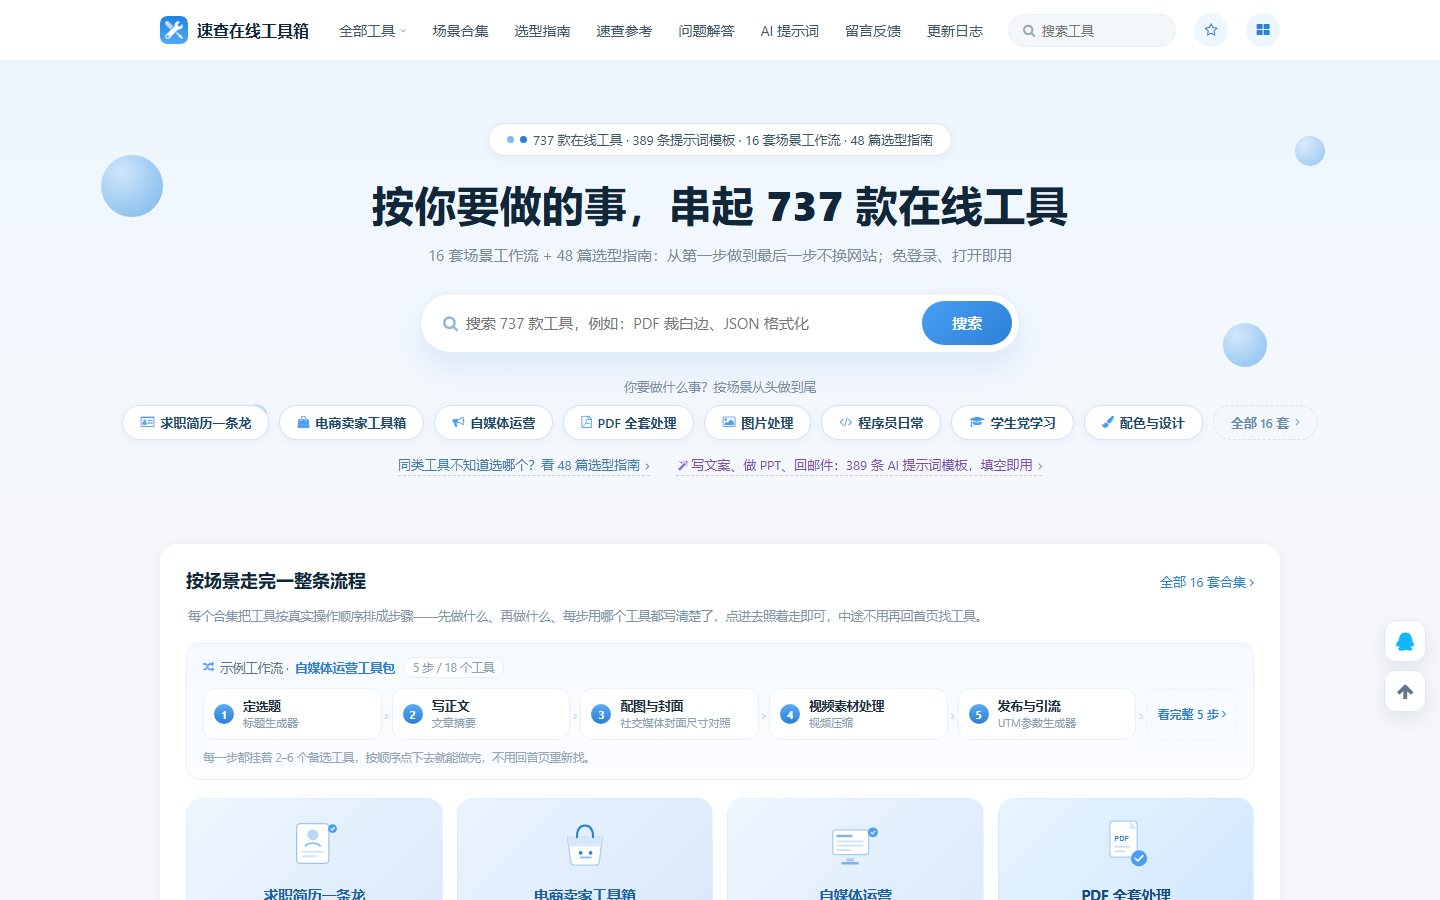
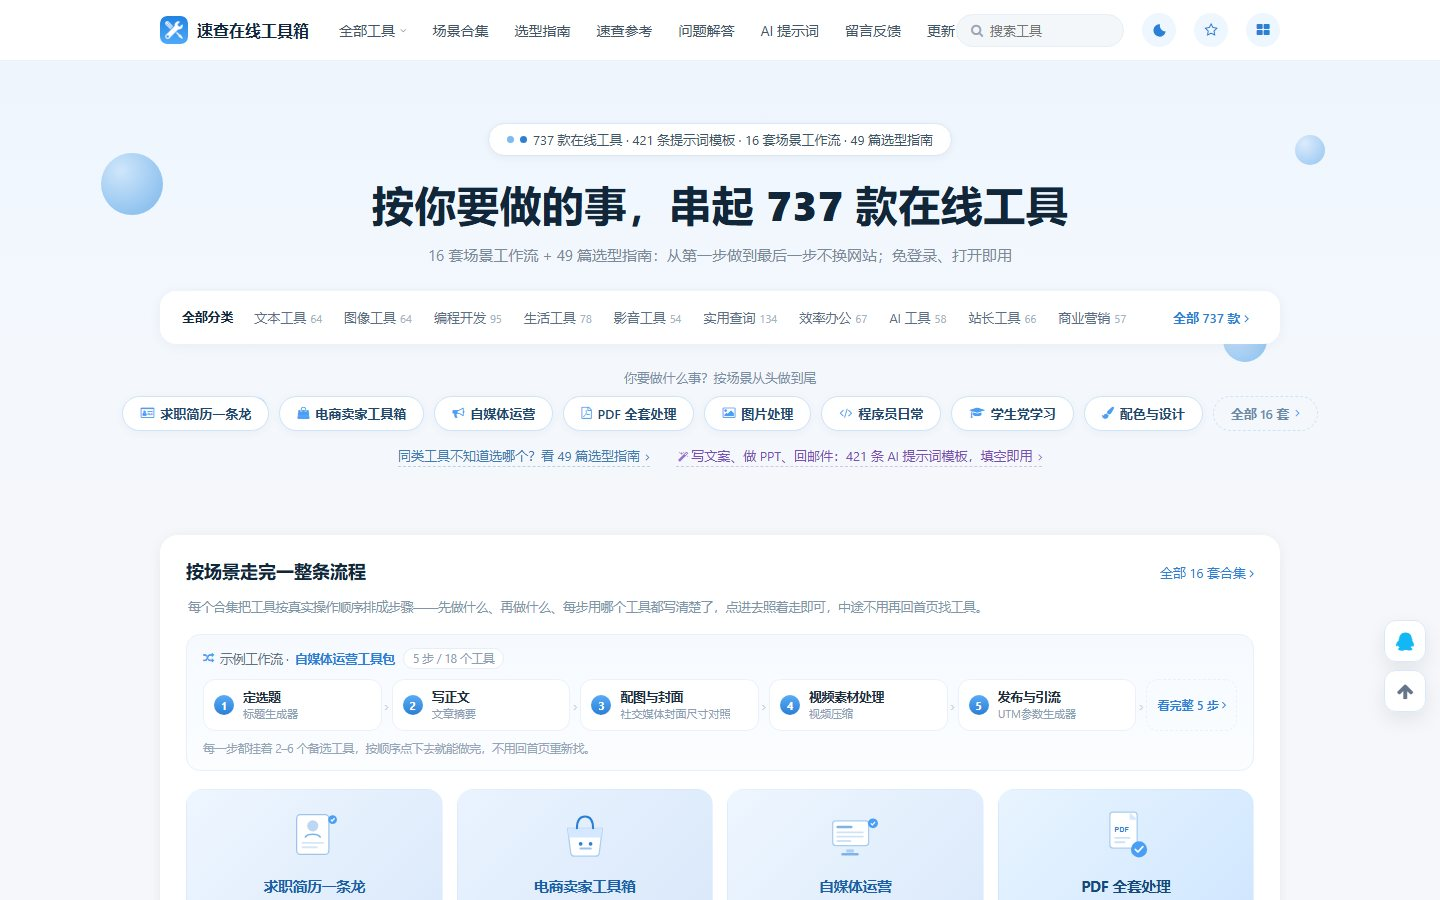
chore: 同步站点数据 737 个工具 / 2026-11-02

diff --git a/README.md b/README.md
@@ -38,7 +38,7 @@
 | 选型指南 | 48 | 同类工具到底选哪个（含生成式 AI 合规自检、代码格式化、音视频压缩等） |
 | 速查参考 | 48 | 字符编码、中文排版规则、进制与位运算等对照数据 |
 | 问题解答 | 286 | 拆解具体疑问（广告法禁用词、AI 内容标识写法、A/B 测试显著性…） |
-| AI 提示词模板 | 409 | 填空即用 |
+| AI 提示词模板 | 421 | 填空即用 |
 
 ## 三条硬约束
 
